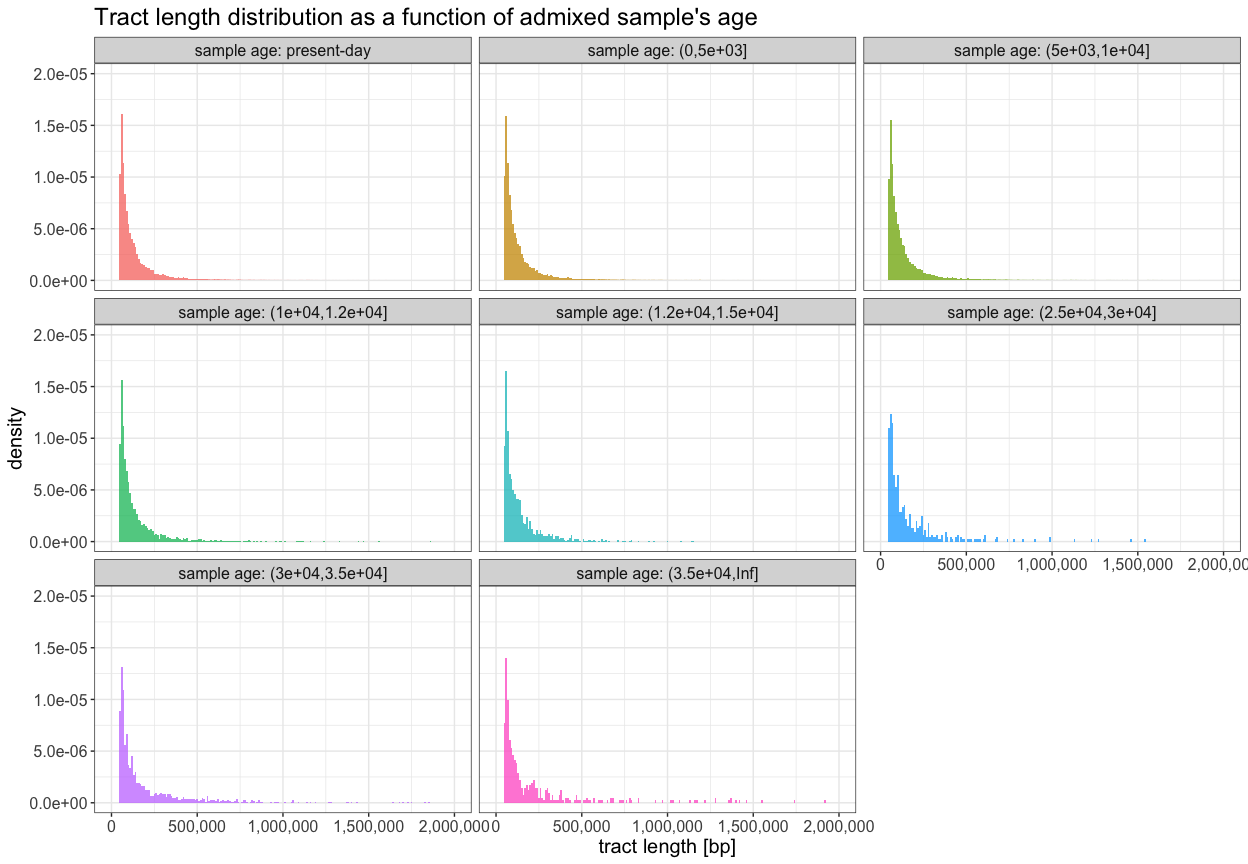
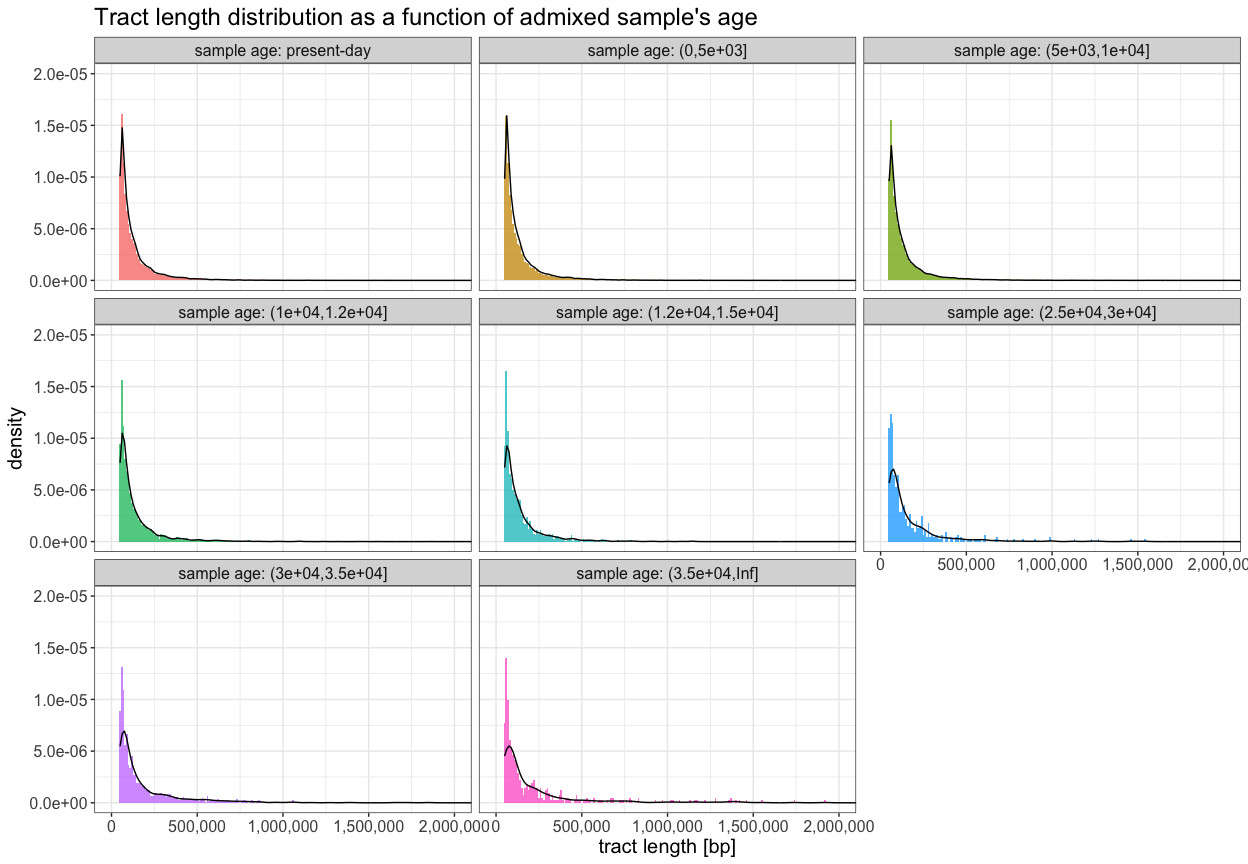
Overlay density curves on top of histograms

diff --git a/dating.md b/dating.md
@@ -81,6 +81,7 @@ ggplot() +
     data = tracts_df, aes(x = length, y = after_stat(density), fill = as.factor(sample_age)),
     binwidth = 10000, alpha = 0.75
   ) +
+  geom_density(data = tracts_df, aes(length), alpha = 0.2) +
   labs(
     x = "tract length [bp]", y = "density", fill = "age of sample",
     title = "Tract length distribution as a function of admixed sample's age"
@@ -512,6 +513,7 @@ ggplot() +
     data = tracts_df, aes(x = length, y = after_stat(density), fill = as.factor(sample_age)),
     binwidth = 10000, alpha = 0.75
   ) +
+  geom_density(data = tracts_df, aes(length), alpha = 0.2) +
   labs(
     x = "tract length [bp]", y = "density", fill = "age of sample",
     title = "Tract length distribution as a function of admixed sample's age"
